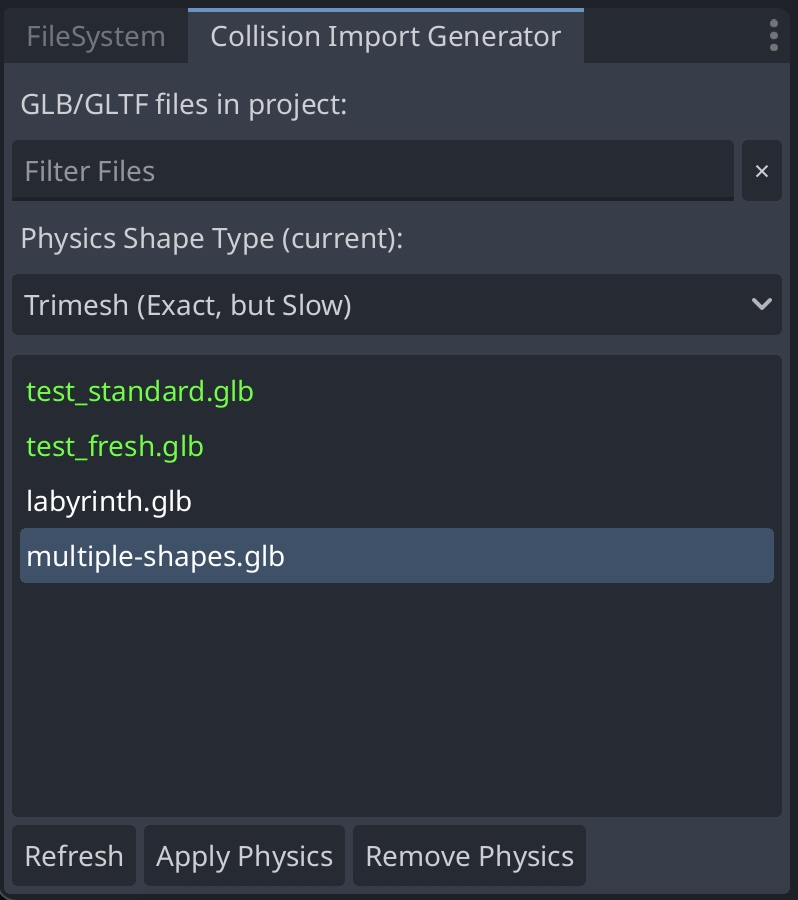
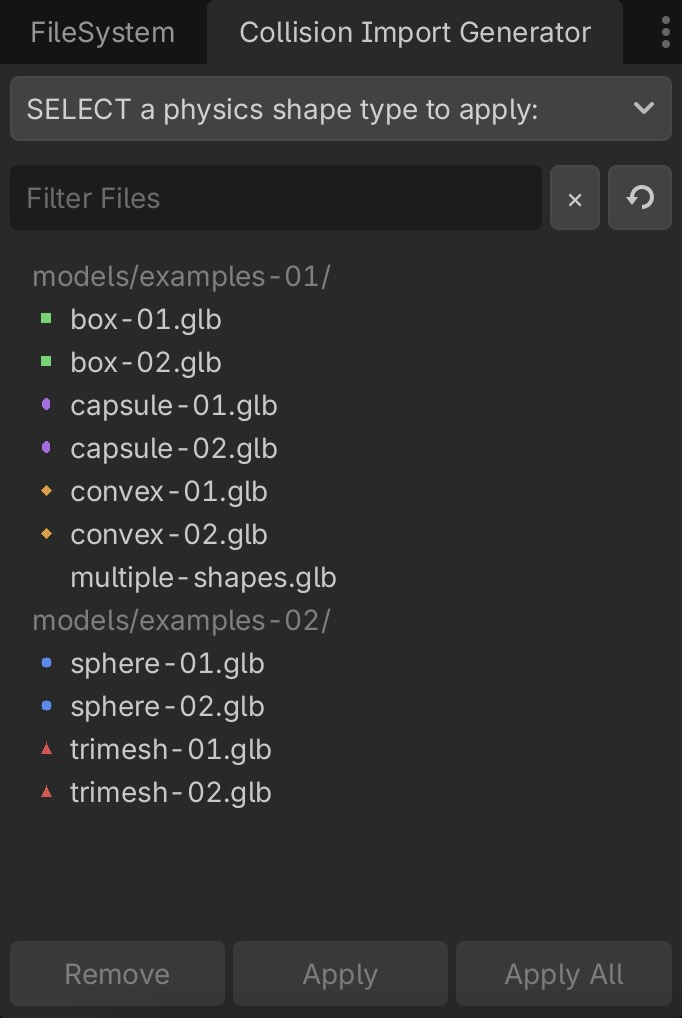
readme, preview, version upd

diff --git a/README.md b/README.md
@@ -1,6 +1,6 @@
 # Physics Collision Import Generator
 
-This Godot plugin automatically generates physics bodies and collision shapes during the import of 3D scenes from GLB/GLTF files, with potential support for more formats in the future.
+This Godot plugin automatically generates physics bodies and collision shapes when importing 3D scenes from GLB/GLTF files. It also supports bulk processing of multiple assets, with potential support for additional formats in the future.
 
 ## Installation
 
@@ -14,10 +14,10 @@ This Godot plugin automatically generates physics bodies and collision shapes du
 2. Open the **"Collision Import Generator"** dock panel (near the FileSystem dock)
 3. Select one or more files from the list
 4. Choose a physics shape type from the dropdown
-5. Click **"Apply Physics"** to add physics, or **"Remove Physics"** to remove it
+5. Click **"Apply"** to add physics, or **"Remove"** to remove it
 
-- Files with physics applied are shown in green
-- Use the search filter to find specific files
+- Files with physics applied are shown with colored icons
+- Use the search filter to find specific files/folders
 
 ## Features
 
@@ -39,3 +39,8 @@ This Godot plugin automatically generates physics bodies and collision shapes du
 - Physics bodies are created as StaticBody3D by default
 - Existing StaticBody3D nodes are reused when possible
 - The plugin sets the **Import Script Path** in the file's `.import` configuration to automatically process scenes during import
+
+## Preview
+
+![Plugin Preview](screenshots/preview.jpg)
+

diff --git a/addons/physics_collision_import_generator/README.md b/addons/physics_collision_import_generator/README.md
@@ -1,6 +1,6 @@
 # Physics Collision Import Generator
 
-This Godot plugin automatically generates physics bodies and collision shapes during the import of 3D scenes from GLB/GLTF files, with potential support for more formats in the future.
+This Godot plugin automatically generates physics bodies and collision shapes when importing 3D scenes from GLB/GLTF files. It also supports bulk processing of multiple assets, with potential support for additional formats in the future.
 
 ## Installation
 
@@ -14,10 +14,10 @@ This Godot plugin automatically generates physics bodies and collision shapes du
 2. Open the **"Collision Import Generator"** dock panel (near the FileSystem dock)
 3. Select one or more files from the list
 4. Choose a physics shape type from the dropdown
-5. Click **"Apply Physics"** to add physics, or **"Remove Physics"** to remove it
+5. Click **"Apply"** to add physics, or **"Remove"** to remove it
 
-- Files with physics applied are shown in green
-- Use the search filter to find specific files
+- Files with physics applied are shown with colored icons
+- Use the search filter to find specific files/folders
 
 ## Features
 
@@ -39,3 +39,8 @@ This Godot plugin automatically generates physics bodies and collision shapes du
 - Physics bodies are created as StaticBody3D by default
 - Existing StaticBody3D nodes are reused when possible
 - The plugin sets the **Import Script Path** in the file's `.import` configuration to automatically process scenes during import
+
+## Preview
+
+![Plugin Preview](screenshots/preview.jpg)
+
